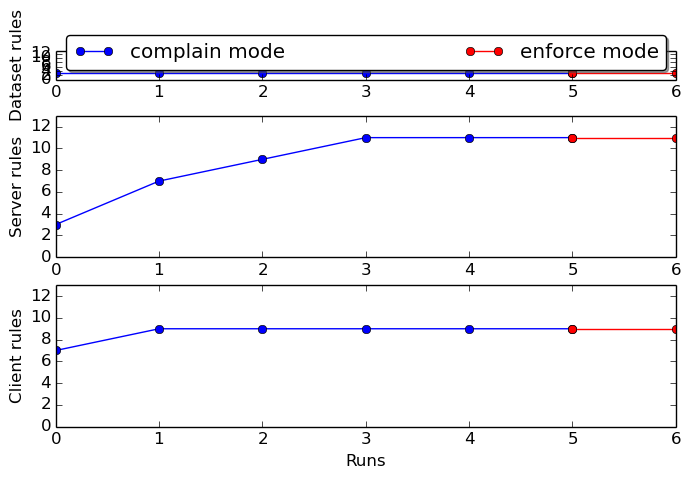
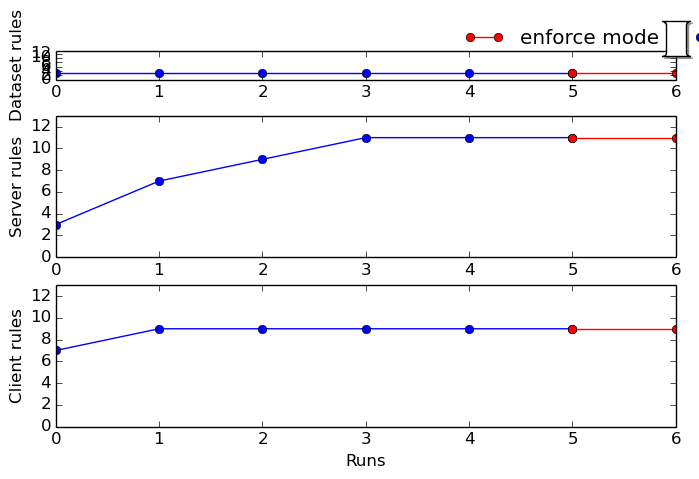
Problem with legend in multile plots gathered

diff --git a/Benchmarks/media-streaming_plot_testing/Parser/metrics/plot_rules_total.py b/Benchmarks/media-streaming_plot_testing/Parser/metrics/plot_rules_total.py
@@ -127,7 +127,7 @@ ax3.plot(enf_rules, part_2c, label="enforce mode", color="red", marker='o')
 box = ax1.get_position()
 ax1.set_position([box.x0, box.y0*1.02, box.width, box.height*0.2])
 
-ax1.legend(loc='lower left', ncol=3, fancybox=True, shadow=True, mode="expand")
+ax1.legend(loc='lower left', bbox_to_anchor=(1, 0.5), ncol=3, fancybox=True, shadow=True, mode="expand")
 
 
 #ax1.legend(loc=1,prop={'size': 12})
